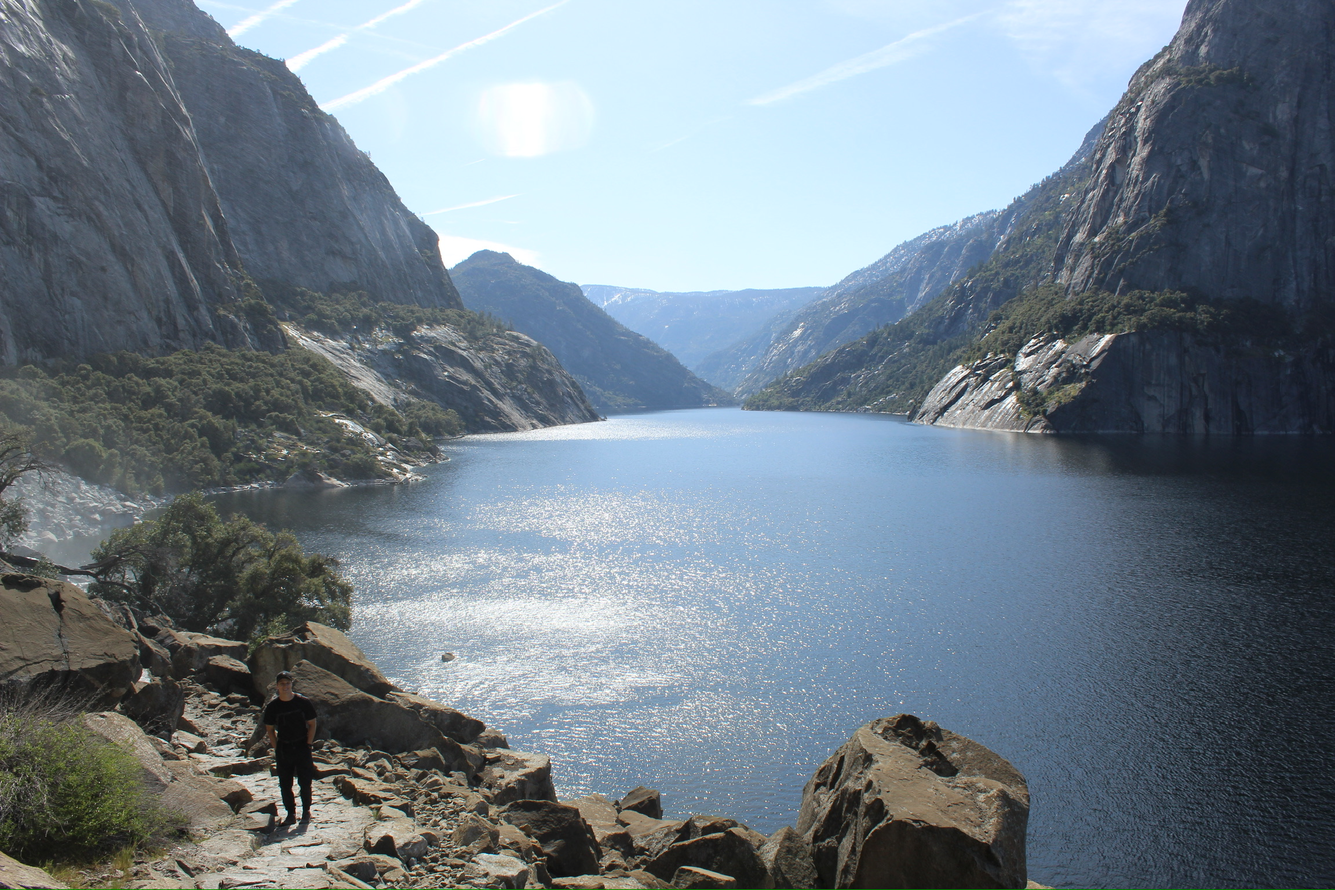
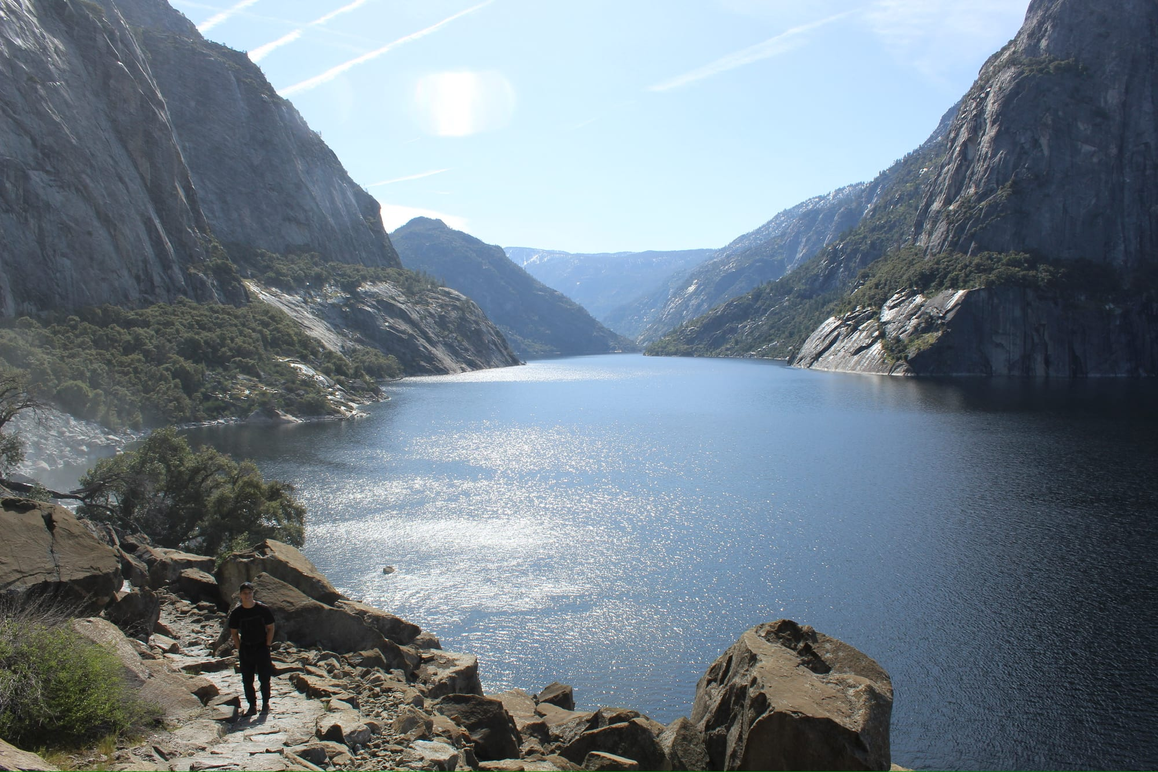
Compress oversized photos for faster loading
Resize photos over 600 KB to at most 2000 px on the long edge
(about 18 MB -> 5 MB). Display size and orientation are unchanged.

Claude-Session: https://claude.ai/code/session_01NA5qN2V7vUJTjbH3iTdydM

Changed region(s): [[0.279, 0.9535, 0.372, 1.0], [0.31, 0.892, 0.341, 0.9227], [0.186, 0.9842, 0.217, 1.0]]

diff --git a/index.html b/index.html
@@ -7,13 +7,13 @@
 <meta name="description" content="William Nuveen — Senior Robotics Hardware Engineer in San Francisco. Consumables, cartridges and robotics hardware for cell therapy manufacturing.">
 <meta property="og:title" content="William Nuveen – Robotics Engineer">
 <meta property="og:description" content="Robotics, product design and automation — from consumer robots to CAR-T manufacturing.">
-<meta property="og:image" content="https://williamnuveen.github.io/portfolio/WilliamNuveenPortrait.jpg">
+<meta property="og:image" content="https://williamnuveen.github.io/portfolio/William_Nuveen_Portrait.jpg">
 <meta property="og:type" content="website">
 <meta property="og:url" content="https://williamnuveen.github.io/portfolio/">
 <meta name="twitter:card" content="summary_large_image">
 <meta name="theme-color" content="#1a2332">
 <link rel="canonical" href="https://williamnuveen.github.io/portfolio/">
-<link rel="preload" as="image" href="WilliamNuveenPortrait.jpg">
+<link rel="preload" as="image" href="William_Nuveen_Portrait.jpg">
 <script type="application/ld+json">
 {"@context":"https://schema.org","@type":"Person","name":"William Nuveen","jobTitle":"Senior Robotics Hardware Engineer","alumniOf":{"@type":"CollegeOrUniversity","name":"Miami University"},"worksFor":{"@type":"Organization","name":"Multiply Labs"},"address":{"@type":"PostalAddress","addressLocality":"San Francisco","addressRegion":"CA"},"url":"https://williamnuveen.github.io/portfolio/","sameAs":["https://www.linkedin.com/in/williamnuveen/","https://github.com/williamnuveen"]}
 </script>
@@ -318,7 +318,7 @@ const aboutCategories = {
   Hiking:   { photos: ['Hiking_2.JPG','Hiking_3.JPG','Hiking_4.JPG','Hiking_5.jpeg'], desc: 'Exploring trails across California and beyond.' },
   Skiing:   { photos: ['Skiing_1.jpg','Skiing_2.JPG','Skiing_3.jpg','Skiing_4.JPG'], desc: 'Chasing powder from Tahoe to the Alps.' },
   Travel:   { photos: ['Travel_1.jpg','Travel_2.jpg','Travel_3.jpg','Travel_4.jpg','Travel_5.jpg'], desc: 'Finding inspiration everywhere.' },
-  Robotics: { photos: ['Robotics_1.PNG','Robotics_2.jpeg','Robotics_3.PNG'], desc: 'The obsession that started it all.' },
+  Robotics: { photos: ['Robotics_1.jpg','Robotics_2.jpg','Robotics_3.jpg'], desc: 'The obsession that started it all.' },
 };
 
 // ─── DATA ────────────────────────────────────────────────────
@@ -721,7 +721,7 @@ const App = () => {
               <a href="#multiply-labs" className="btn btn-ghost">Current work ↓</a>
             </div>
           </div>
-          <Img className="hero-photo" src="WilliamNuveenPortrait.jpg" alt="Portrait of William Nuveen" eager />
+          <Img className="hero-photo" src="William_Nuveen_Portrait.jpg" alt="Portrait of William Nuveen" eager />
         </div>
       </section>
 
